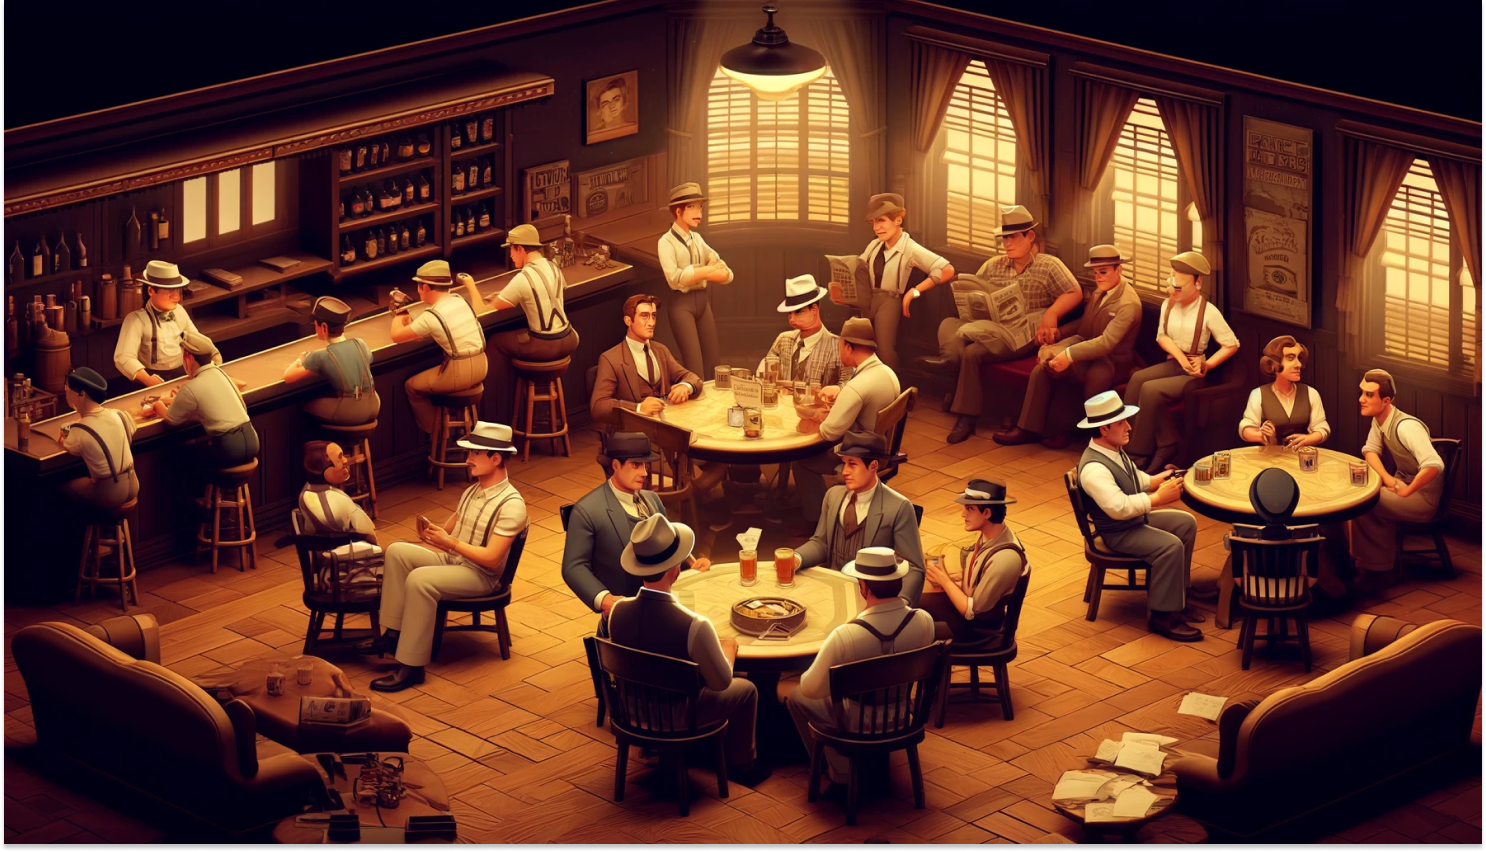
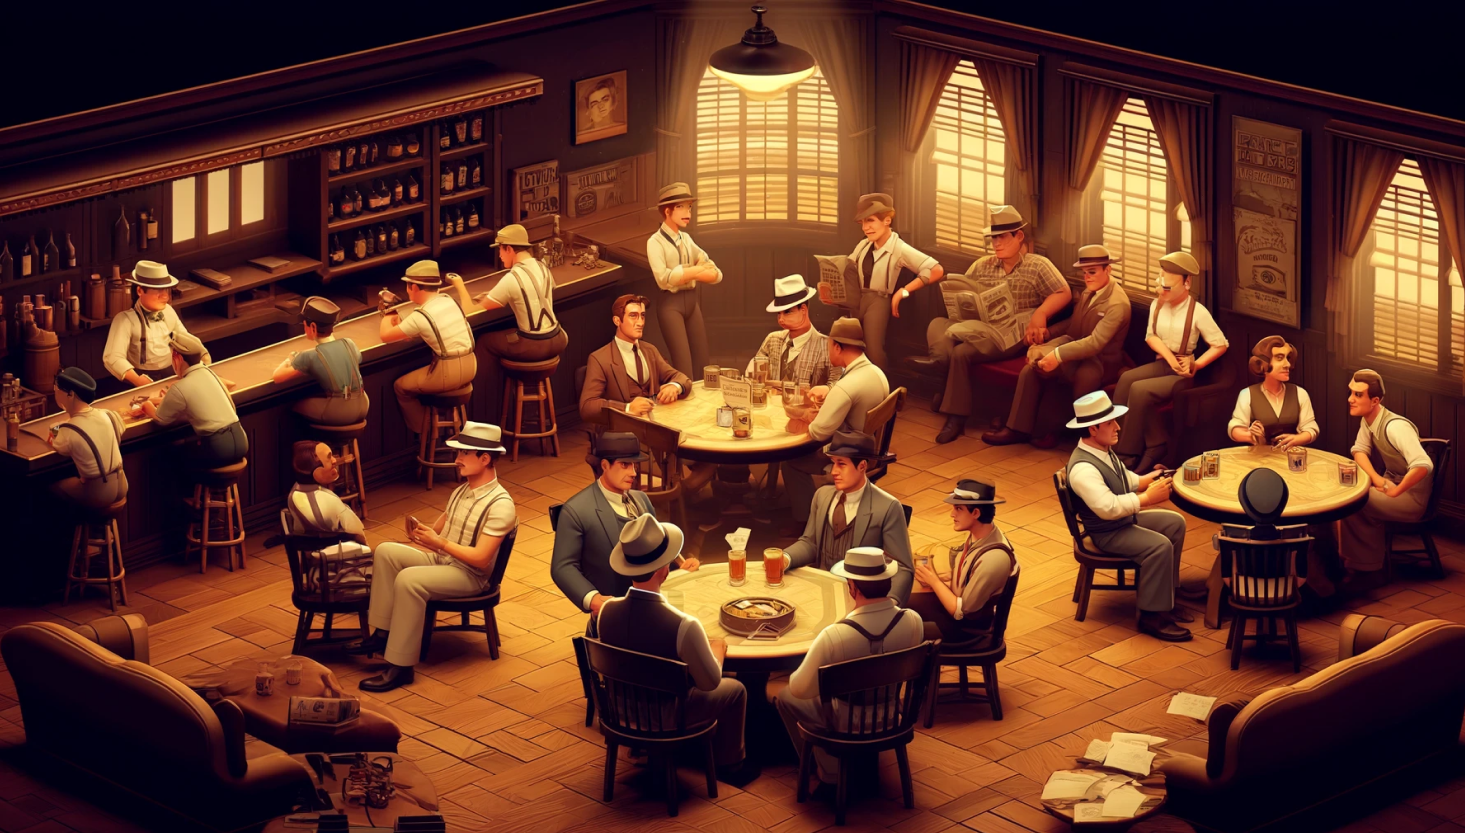
added config files, fixed background image

diff --git a/components/screens/GameScreen/GameScreen.tsx b/components/screens/GameScreen/GameScreen.tsx
@@ -8,7 +8,7 @@ import { HeaderResult } from "@/components/partials/HeaderResult/HeaderResult";
 import Button from "@/components/base/Button/Button";
 
 import { FC, useEffect, useState } from "react";
-import { ActivityIndicator, StyleSheet, View } from "react-native";
+import { ActivityIndicator, Platform, StyleSheet, View } from "react-native";
 import { StatusBar } from "react-native";
 import Animated, {
   Easing,
@@ -57,6 +57,9 @@ export const GameScreen: FC<GameScreenProps> = ({
   playerID,
   onCharacterUpdate,
 }) => {
+  const winner = gameState?.winner;
+  const players = gameState?.players;
+
   const [isHeaderVisible, setIsHeaderVisible] = useState(
     gameState.stage === "waitingForPlayers" || gameState.stage === "result"
       ? true
@@ -67,15 +70,12 @@ export const GameScreen: FC<GameScreenProps> = ({
 
   const [selectedPlayer, setSelectedPlayer] = useState<Player | null>(null);
   const [avatarGridMode, setAvatarGridMode] = useState<Mode>(
-    gameState.winner ? "revealed" : "pressable"
+    mode === "host" ? "pressable" : "default"
   );
   // GameRules States
   const [showRolesAfterDeath, setShowRolesAfterDeath] = useState(false);
   const [numberOfMafia, setNumberOfMafia] = useState(2);
   const [additionalRoles, setAdditionalRoles] = useState<AdditionalRole[]>([]);
-
-  const winner = gameState?.winner;
-  const players = gameState?.players;
 
   const paddingTop = useSharedValue(mode === "host" ? 270 : 200);
 
@@ -139,7 +139,19 @@ export const GameScreen: FC<GameScreenProps> = ({
     );
   }, [gameState.stage]);
 
+  useEffect(() => {
+    setAvatarGridMode(
+      gameState.stage === "result"
+        ? "revealed"
+        : mode === "host"
+        ? "pressable"
+        : "default"
+    );
+  }, [gameState.stage]);
+
   console.log("GameState lol:", gameState);
+
+  console.log("avatar grid mode", avatarGridMode);
 
   if (!gameState) {
     return (
@@ -305,11 +317,10 @@ const styles = StyleSheet.create({
     marginTop: 50,
     paddingHorizontal: 20,
     height: "100%",
-    backgroundColor: "rgba(0,0,0,0.5)",
   },
   button: {
     position: "absolute",
-    bottom: 50,
+    bottom: Platform.OS === "ios" ? 50 : 10,
     left: 20,
     right: 20,
     justifyContent: "center",

diff --git a/components/partials/ImageBackground/ImageBackground.tsx b/components/partials/ImageBackground/ImageBackground.tsx
@@ -1,5 +1,10 @@
 import React, { ReactNode } from "react";
-import { ImageBackground as RNImageBackground, StyleSheet } from "react-native";
+import {
+  ImageBackground as RNImageBackground,
+  StyleSheet,
+  View,
+  Platform,
+} from "react-native";
 import { useSafeAreaInsets } from "react-native-safe-area-context";
 
 interface CustomBackgroundProps {
@@ -11,8 +16,15 @@ const ImageBackground: React.FC<CustomBackgroundProps> = ({ children }) => {
 
   const styles = StyleSheet.create({
     background: {
-      marginTop: -insets.top * 0.5,
+      marginTop: -insets.top,
       marginBottom: -insets.bottom,
+      flex: 1,
+    },
+    overlay: {
+      ...StyleSheet.absoluteFillObject,
+      backgroundColor: "rgba(0, 0, 0, 0.5)",
+    },
+    content: {
       flex: 1,
     },
   });
@@ -23,7 +35,8 @@ const ImageBackground: React.FC<CustomBackgroundProps> = ({ children }) => {
       style={styles.background}
       resizeMode="cover"
     >
-      {children}
+      <View style={styles.overlay} />
+      <View style={styles.content}>{children}</View>
     </RNImageBackground>
   );
 };

diff --git a/app/_layout.tsx b/app/_layout.tsx
@@ -22,7 +22,7 @@ import { ReactNode } from "react";
 import { SafeAreaProvider } from "react-native-safe-area-context";
 import { StatusBar } from "react-native";
 import Toast from "react-native-toast-message";
-import toastConfig from "@/gameConfig/ToastConfig";
+import toastConfig from "@/gameConfig/Toast.config";
 
 // eslint-disable-next-line @typescript-eslint/no-var-requires
 require("es6-promise").polyfill();
@@ -107,12 +107,6 @@ export default function RootLayout() {
   return (
     <CommonProviders>
       <Stack screenOptions={{ headerShown: false }}>
-        <Stack.Screen
-          name="game"
-          options={{
-            gestureEnabled: false,
-          }}
-        />
         <Stack.Screen
           name="index"
           options={{

diff --git a/components/partials/HeaderLobbyHost/HeaderLobbyHost.tsx b/components/partials/HeaderLobbyHost/HeaderLobbyHost.tsx
@@ -4,8 +4,9 @@ import { StyleSheet, View } from "react-native";
 import Text from "../../base/Text/Text";
 import SelectListItem from "@/components/base/SelectListItem/SelectListItem";
 import { NumberListItem } from "@/components/base/NumberListItem/NumberListItem";
-import NumberOfMafiaConfig from "@/gameConfig/NumberOfMafiaConfig";
-import AvailableRolesConfig from "@/gameConfig/AvailableRolesConfig";
+
+import AvailableRolesConfig from "@/gameConfig/AvailableRoles.config";
+import NumberOfMafiaConfig from "@/gameConfig/NumberOfMafia.config";
 
 import { Dispatch, SetStateAction } from "react";
 import { AdditionalRole } from "@/components/types/AdditionalRole";

diff --git a/.storybook/storybook.requires.ts b/.storybook/storybook.requires.ts
@@ -15,12 +15,12 @@ const normalizedStories = [
     directory: "./components",
     files: "**/*.stories.?(ts|tsx|js|jsx)",
     importPathMatcher:
-      /^\.(?:(?:^|[\\/]|(?:(?:(?!(?:^|[\\/])\.).)*?)[\\/])(?!\.)(?=.)[^\\/]*?\.stories\.(?:ts|tsx|js|jsx)?)$/,
+      /^\.(?:(?:^|\/|(?:(?:(?!(?:^|\/)\.).)*?)\/)(?!\.)(?=.)[^/]*?\.stories\.(?:ts|tsx|js|jsx)?)$/,
     // @ts-ignore
     req: require.context(
       "../components",
       true,
-      /^\.(?:(?:^|[\\/]|(?:(?:(?!(?:^|[\\/])\.).)*?)[\\/])(?!\.)(?=.)[^\\/]*?\.stories\.(?:ts|tsx|js|jsx)?)$/
+      /^\.(?:(?:^|\/|(?:(?:(?!(?:^|\/)\.).)*?)\/)(?!\.)(?=.)[^/]*?\.stories\.(?:ts|tsx|js|jsx)?)$/
     ),
   },
 ];

diff --git a/components/screens/JoinScreen/JoinScreen.tsx b/components/screens/JoinScreen/JoinScreen.tsx
@@ -2,7 +2,7 @@ import React, { useState } from "react";
 import StartScreen from "@/components/partials/StartScreen/StartScreen";
 import { TextEditListItem } from "@/components/base/TextEditListItem/TextEditListItem";
 import Button from "@/components/base/Button/Button";
-import { GAME_CODE_LENGTH } from "@/helpers/correctGameCode";
+import { GAME_CODE_LENGTH } from "@/gameConfig/inputLengths.config";
 import { router } from "expo-router";
 
 interface JoinScreenProps {

diff --git a/helpers/correctNickname.ts b/helpers/correctNickname.ts
@@ -1,7 +1,12 @@
+import {
+  NICKNAME_MAX_LENGTH,
+  NICKNAME_MIN_LENGTH,
+} from "@/gameConfig/inputLengths.config";
+
 const correctNickname = (nickname: string) => {
   // Define the minimum and maximum length for the nickname
-  const minLength = 3;
-  const maxLength = 12;
+  const minLength = NICKNAME_MIN_LENGTH;
+  const maxLength = NICKNAME_MAX_LENGTH;
 
   if (nickname.length < 1) {
     return {

diff --git a/components/base/SelectListItem/SelectListItem.stories.tsx b/components/base/SelectListItem/SelectListItem.stories.tsx
@@ -1,7 +1,7 @@
 import type { Meta, StoryObj } from "@storybook/react";
 import StoryDecorator from "@/decorators/StoryDecorator";
 import SelectListItem from "./SelectListItem";
-import AvailableRoles from "@/gameConfig/AvailableRolesConfig";
+import AvailableRoles from "@/gameConfig/AvailableRoles.config";
 
 const meta: Meta<typeof SelectListItem> = {
   component: SelectListItem,

diff --git a/components/partials/ChangeAvatarBottomSheet/ChangeAvatarBottomSheet.tsx b/components/partials/ChangeAvatarBottomSheet/ChangeAvatarBottomSheet.tsx
@@ -42,7 +42,7 @@ const ChangeAvatarBottomSheet: React.FC<ChangeAvatarBottomSheetProps> = ({
   const handleSnapToItem = (index: number) => {
     const selectedCharacter = AllAvailableCharacters[index];
     console.log("Snapped to:", selectedCharacter);
-    // onCharacterSelected(selectedCharacter);
+    onCharacterSelected(selectedCharacter);
   };
 
   return (

diff --git a/components/base/Header/Header.tsx b/components/base/Header/Header.tsx
@@ -36,7 +36,7 @@ export const Header = ({ children, isVisible }: HeaderProps) => {
 
   return (
     <Animated.View
-      style={[styles.box, { paddingTop: insets.top }, animatedStyle]}
+      style={[styles.box, { paddingTop: insets.top * 1.75 }, animatedStyle]}
     >
       <View style={styles.container}>{children}</View>
     </Animated.View>

diff --git a/helpers/correctGameCode.ts b/helpers/correctGameCode.ts
@@ -1,4 +1,4 @@
-export const GAME_CODE_LENGTH = 8;
+import { GAME_CODE_LENGTH } from "@/gameConfig/inputLengths.config";
 
 const correctGameCode = (gameCode: string) => {
   // Define the minimum and maximum length for the gameCode

diff --git a/gameConfig/inputLengths.config.ts b/gameConfig/inputLengths.config.ts
@@ -1,0 +1,3 @@
+export const GAME_CODE_LENGTH = 8;
+export const NICKNAME_MAX_LENGTH = 12;
+export const NICKNAME_MIN_LENGTH = 3;
